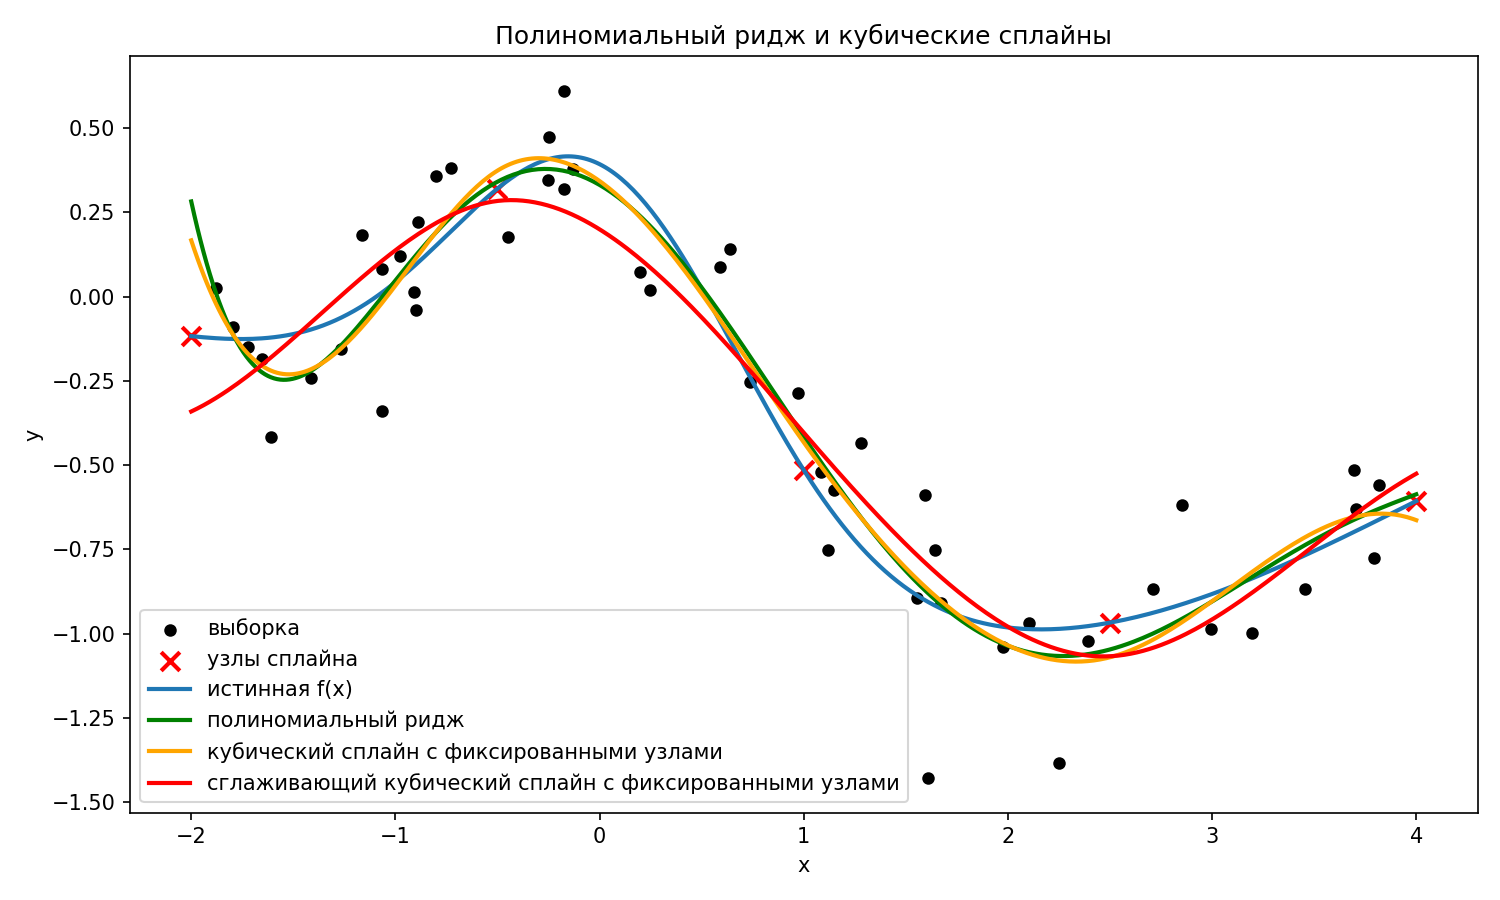
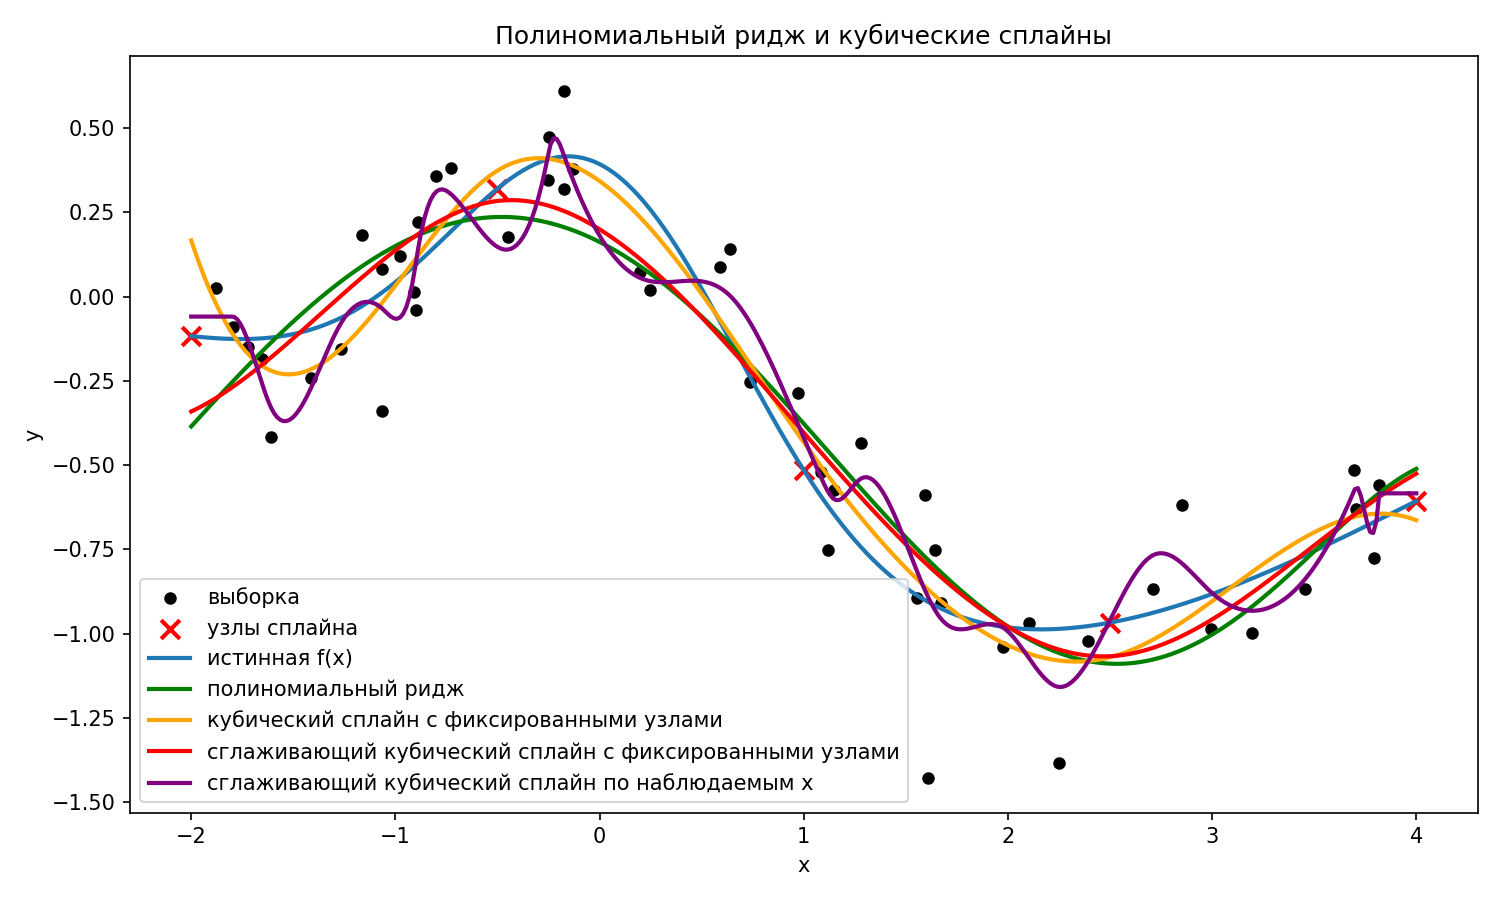
5 is done

diff --git a/statistics_ml/task4/solution.py b/statistics_ml/task4/solution.py
@@ -1,6 +1,7 @@
 from pathlib import Path
 
 import matplotlib
+
 matplotlib.use("Agg")
 import matplotlib.pyplot as plt
 import numpy as np
@@ -41,8 +42,10 @@ class ExpantionsResolver:
         pipeline = Pipeline(
             [
                 ("poly", PolynomialFeatures(include_bias=False)),
-                ("scale", StandardScaler()), # Добавлено из-за LinAlgWarning: Ill-conditioned matrix (rcond=8.57037e-17): result may not be accurate.
-                                             # return linalg.solve(A, Xy, assume_a="pos", overwrite_a=True).T
+                (
+                    "scale",
+                    StandardScaler(),
+                ),  # Добавлено из-за LinAlgWarning: ill-conditioned matrix.
                 ("ridge", Ridge()),
             ]
         )
@@ -74,10 +77,10 @@ class ExpantionsResolver:
                     SplineTransformer(
                         degree=3,
                         knots=self.fixed_knots,
-                        include_bias=False
+                        include_bias=False,
                     ),
                 ),
-                ("ridge", Ridge(alpha=0.0))
+                ("ridge", Ridge(alpha=0.0)),
             ]
         )
         model.fit(x, y)
@@ -98,7 +101,6 @@ class ExpantionsResolver:
                         degree=3,
                         knots=self.fixed_knots,
                         include_bias=False,
-                        #extrapolation="continue",
                     ),
                 ),
                 ("ridge", Ridge()),
@@ -125,15 +127,13 @@ class ExpantionsResolver:
         }
         return best_model
 
-
-    def fit_smoothed_x_knot_cubic_spline(self, x : np.array, y: np.array):
-        
+    def fit_smoothed_x_knot_cubic_spline(self, x: np.ndarray, y: np.ndarray):
         x_knots = np.unique(
             np.sort(
-                np.random.choice(x,size = (int(len(x) * self.percent_of_x_knots))),
-                axis=0),
-            axis=0)
-        
+                np.random.choice(x[:, 0], size=int(len(x) * self.percent_of_x_knots), replace=False)
+            )
+        ).reshape(-1, 1)
+
         pipeline = Pipeline(
             [
                 (
@@ -168,7 +168,15 @@ class ExpantionsResolver:
         }
         return best_model
 
-    def make_plot(self, x, y, polynomial_model, spline_model, smoothed_spline_model):
+    def make_plot(
+        self,
+        x,
+        y,
+        polynomial_model,
+        spline_model,
+        smoothed_spline_model,
+        smoothed_x_knots_spline_model,
+    ):
         grid_x = np.linspace(self.domain[0], self.domain[1], 400).reshape(-1, 1)
         plt.figure(figsize=(10, 6))
         plt.scatter(x[:, 0], y, color="black", s=25, label="выборка")
@@ -203,6 +211,13 @@ class ExpantionsResolver:
             color="red",
             label="сглаживающий кубический сплайн с фиксированными узлами",
         )
+        plt.plot(
+            grid_x[:, 0],
+            smoothed_x_knots_spline_model.predict(grid_x),
+            linewidth=2,
+            color="purple",
+            label="сглаживающий кубический сплайн по наблюдаемым x",
+        )
         plt.title("Полиномиальный ридж и кубические сплайны")
         plt.xlabel("x")
         plt.ylabel("y")
@@ -214,7 +229,7 @@ class ExpantionsResolver:
     def make_basis_plot(self, spline_model):
         grid_x = np.linspace(self.domain[0], self.domain[1], 400).reshape(-1, 1)
         basis = spline_model.named_steps["spline"].transform(grid_x)
-        # Строятся B-сплайны, они обеспечивают локальность 
+
         plt.figure(figsize=(10, 6))
         for idx in range(basis.shape[1]):
             plt.plot(grid_x[:, 0], basis[:, idx], linewidth=2, label=f"базис {idx + 1}")
@@ -241,7 +256,14 @@ class ExpantionsResolver:
         spline_model = self.fit_fixed_knot_cubic_spline(x, y)
         smoothed_spline_model = self.fit_smoothed_fixed_knot_cubic_spline(x, y)
         smoothed_x_knots_spline_model = self.fit_smoothed_x_knot_cubic_spline(x, y)
-        self.make_plot(x, y, polynomial_model, spline_model, smoothed_spline_model)
+        self.make_plot(
+            x,
+            y,
+            polynomial_model,
+            spline_model,
+            smoothed_spline_model,
+            smoothed_x_knots_spline_model,
+        )
         self.make_basis_plot(spline_model)
 
         print("\n#########################\n")
@@ -255,14 +277,20 @@ class ExpantionsResolver:
         print(f"Степень: {self.polynomial_result['degree']}")
         print(f"Параметр alpha: {self.polynomial_result['alpha']}")
         print(f"Средняя квадратичная ошибка CV: {self.polynomial_result['cv_mse']}")
-        print(f"Число степеней свободы (приблизительно): {self.polynomial_result['degree'] + 1}")
+        print(
+            "Число степеней свободы (приблизительно): "
+            f"{self.polynomial_result['degree'] + 1}"
+        )
 
         print("\n#########################\n")
         print("Задание 4. Пункт 2")
         print("Кубический сплайн с фиксированными узлами без сглаживания")
         print(f"Узлы: {self.spline_result['knots']}")
         print(f"Средняя квадратичная ошибка на обучении: {self.spline_result['train_mse']}")
-        print(f"Число степеней свободы (приблизительно): {self.spline_result['degrees_of_freedom']}")
+        print(
+            "Число степеней свободы (приблизительно): "
+            f"{self.spline_result['degrees_of_freedom']}"
+        )
 
         print("\n#########################\n")
         print("Задание 4. Пункт 3")
@@ -270,7 +298,10 @@ class ExpantionsResolver:
         print(f"Узлы: {self.smoothed_spline_result['knots']}")
         print(f"Параметр alpha: {self.smoothed_spline_result['alpha']}")
         print(f"Средняя квадратичная ошибка CV: {self.smoothed_spline_result['cv_mse']}")
-        print(f"Средняя квадратичная ошибка на обучении: {self.smoothed_spline_result['train_mse']}")
+        print(
+            "Средняя квадратичная ошибка на обучении: "
+            f"{self.smoothed_spline_result['train_mse']}"
+        )
         print(
             "Число степеней свободы (приблизительно): "
             f"{self.smoothed_spline_result['degrees_of_freedom']}"
@@ -281,6 +312,21 @@ class ExpantionsResolver:
         print("Построены базисные функции для кубического сплайна с фиксированными узлами")
         print(f"Узлы: {self.fixed_knots.ravel().tolist()}")
         print(f"График базисных функций сохранён в: {self.basis_plot_path}")
+
+        print("\n#########################\n")
+        print("Задание 4. Пункт 5")
+        print("Сглаживающий кубический сплайн с узлами, равными наблюдаемым x")
+        print(f"Узлы: {self.smoothed_x_knot_spline_result['knots']}")
+        print(f"Параметр alpha: {self.smoothed_x_knot_spline_result['alpha']}")
+        print(f"Средняя квадратичная ошибка CV: {self.smoothed_x_knot_spline_result['cv_mse']}")
+        print(
+            "Средняя квадратичная ошибка на обучении: "
+            f"{self.smoothed_x_knot_spline_result['train_mse']}"
+        )
+        print(
+            "Число степеней свободы (приблизительно): "
+            f"{self.smoothed_x_knot_spline_result['degrees_of_freedom']}"
+        )
 
 
 if __name__ == "__main__":
